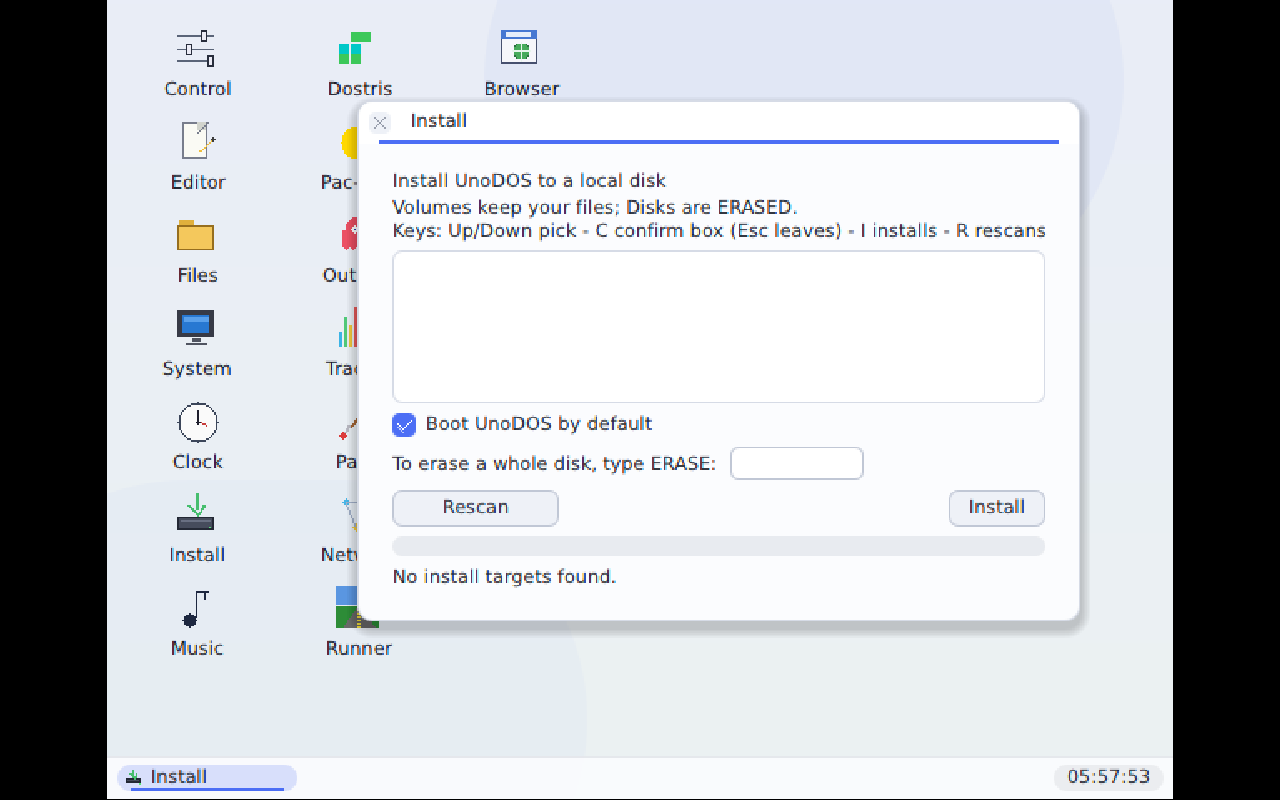
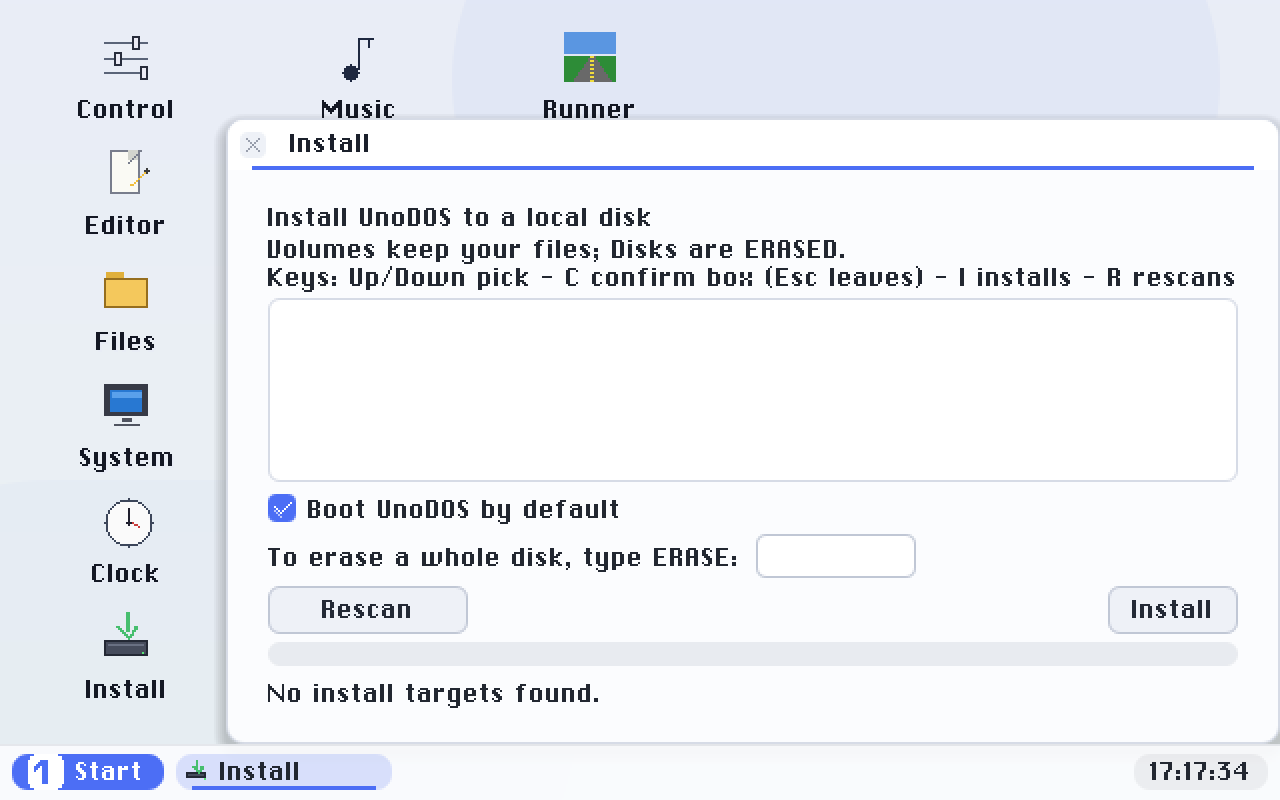
docs: manual - Realtek wired is metal-verified; the whole-disk ERASE gate
Two user-facing corrections from this session's work, plus a refreshed shot.

Networking: the page said the Realtek wired driver "has not been verified on
hardware yet". It has now - a ZimaBlade with an onboard RTL8168 links at gigabit,
takes a DHCP lease and browses with nothing plugged in. The verification note is
reworded accordingly: Intel is emulator-verified, Realtek is metal-verified, and
the laptop caveat is narrowed to laptops (which is what it was always about).

Getting started: the whole-disk install was described as "asks you to confirm
twice", which has not been true since the confirm box landed. It requires TYPING
the word ERASE - C for the box, type it, then I to arm and I to commit. That is a
destructive action reachable in three keystrokes if you believe the old text, so
it now gets numbered steps and a warning callout covering what the gate does and
does not cover (it applies to the selected row only, and re-selecting clears it),
plus the escape hatch: nothing is written until the second I.

install.png regenerated - the committed one still showed the retired Network app
icon on the desktop. The emulator scene offers no installable disk, so the target
list is empty; the caption now says so and explains what a real PC shows instead,
rather than promising a populated list the figure does not contain. Attaching a
scratch disk to the docs harness was tried and does NOT populate it (the disk
[…]

Changed region(s): [[0.0, 0.0, 1.0, 1.0], [0.5625, 0.5938, 0.6875, 0.625]]

diff --git a/docs/getting-started.html b/docs/getting-started.html
@@ -181,11 +181,19 @@ menu) can put UnoDOS on the computer itself, so it boots without the stick:</p>
       menu. <strong>Nothing is deleted</strong> - Windows keeps booting as before, and you can undo it
       by deleting the <code>\EFI\UNODOS</code> folder.</li>
   <li><strong>Onto a whole disk</strong> (the <em>Disk</em> rows): the entire disk is erased and
-      becomes a UnoDOS disk. This is destructive and asks you to confirm twice.</li>
+      becomes a UnoDOS disk. This one cannot be done by accident - you have to type the word
+      <strong>ERASE</strong> first (below).</li>
 </ul>
 <p>Pick a target with <kbd>↑</kbd>/<kbd>↓</kbd> and press <kbd>I</kbd> to install
 (<kbd>R</kbd> rescans). The system files, fonts, documents and all the apps are copied along.</p>
-<figure class="shot-sm"><button type="button" class="zoom" data-full="assets/img/install.png" aria-label="Enlarge: The Install app: pick a target, press I. Rows marked keeps data are non-destructive."><img src="assets/img/install.png" alt="The Install app: pick a target, press I. Rows marked keeps data are non-destructive." loading="lazy"></button><figcaption>The <b>Install</b> app: pick a target, press <kbd>I</kbd>. Rows marked <i>keeps data</i> are non-destructive.</figcaption></figure>
+<p>For a <strong>whole disk</strong>, one more step stands between you and an erased drive:</p>
+<ol>
+  <li>Press <kbd>C</kbd> to put the caret in the confirm box (<kbd>Esc</kbd> leaves it again).</li>
+  <li>Type <strong>ERASE</strong>.</li>
+  <li>Press <kbd>I</kbd> to arm, then <kbd>I</kbd> again to commit.</li>
+</ol>
+<div class="note warn"><b>A whole-disk install erases everything on that disk</b>Typing <b>ERASE</b> is the only thing that unlocks a whole-disk install, and it applies to the selected row only - change the selection and you type it again. A row listed <b>[too small]</b>, <b>[read-only]</b> or <b>[not 512B/s]</b> cannot be installed to at all. If you change your mind, press <kbd>Esc</kbd> and close the window; nothing is written until the second <kbd>I</kbd>.</div>
+<figure class="shot-sm"><button type="button" class="zoom" data-full="assets/img/install.png" aria-label="Enlarge: The Install app. The key line across the top is the whole procedure, and the type ERASE box above the buttons is the gate on a whole-disk install - until that word is typed, I does nothing. This shot is from the emulator, which offers no disk UnoDOS can install to, so the list is empty; on a real PC each eligible disk and EFI partition appears as a row."><img src="assets/img/install.png" alt="The Install app. The key line across the top is the whole procedure, and the type ERASE box above the buttons is the gate on a whole-disk install - until that word is typed, I does nothing. This shot is from the emulator, which offers no disk UnoDOS can install to, so the list is empty; on a real PC each eligible disk and EFI partition appears as a row." loading="lazy"></button><figcaption>The <b>Install</b> app. The key line across the top is the whole procedure, and the <b>type ERASE</b> box above the buttons is the gate on a whole-disk install - until that word is typed, <kbd>I</kbd> does nothing. This shot is from the emulator, which offers no disk UnoDOS can install to, so the list is empty; on a real PC each eligible disk and EFI partition appears as a row.</figcaption></figure>
 
 <h2 id="firstboot">First boot</h2>
 <p>A splash screen with a loading bar appears while UnoDOS starts up, then a short start-up chime

diff --git a/docs/networking.html b/docs/networking.html
@@ -106,9 +106,10 @@ laptops with an Ethernet socket:</p>
       laptop LOM chips (the <em>e1000e</em> family)</li>
   <li><strong>Intel I210 / I211 / I350</strong> and the 8257x server parts (the <em>igb</em> family)</li>
 </ul>
-<p>A driver for <strong>Realtek</strong> wired chips (RTL8168 / 8111 / 8125) is included but has not been
-verified on hardware yet.</p>
-<div class="note"><b>Emulator-verified</b>The wired Intel drivers are verified in the emulator against the QEMU e1000 / e1000e / igb models. Most test laptops have no wired port, so the built-in NIC on a given real machine may not have been exercised end to end - if the built-in port does not come up, a supported USB Ethernet adapter (below) is the reliable path.</div>
+<p><strong>Realtek</strong> wired chips (RTL8168 / 8111 / 8125) are supported too - the port built into most
+desktop boards and small-form-factor PCs. This one is <strong>verified on real hardware</strong>: a ZimaBlade
+with an onboard RTL8168 links at gigabit, takes a DHCP address and browses, with no adapter plugged in.</p>
+<div class="note"><b>How this is verified</b>The Intel drivers are verified in the emulator against the QEMU e1000 / e1000e / igb models, and the Realtek driver on a real machine. Most test <em>laptops</em> have no wired port, so the built-in NIC on any given laptop may not have been exercised end to end - if a built-in port does not come up, a supported USB Ethernet adapter (below) is the reliable path.</div>
 
 <h2 id="status">Checking the connection</h2>
 <p>The <strong>Network</strong> tab in the <a href="appearance.html#control">Control Panel</a> shows the live

diff --git a/docs/build_site.py b/docs/build_site.py
@@ -858,11 +858,19 @@ menu) can put UnoDOS on the computer itself, so it boots without the stick:</p>
       menu. <strong>Nothing is deleted</strong> - Windows keeps booting as before, and you can undo it
       by deleting the <code>\\EFI\\UNODOS</code> folder.</li>
   <li><strong>Onto a whole disk</strong> (the <em>Disk</em> rows): the entire disk is erased and
-      becomes a UnoDOS disk. This is destructive and asks you to confirm twice.</li>
+      becomes a UnoDOS disk. This one cannot be done by accident - you have to type the word
+      <strong>ERASE</strong> first (below).</li>
 </ul>
 <p>Pick a target with <kbd>↑</kbd>/<kbd>↓</kbd> and press <kbd>I</kbd> to install
 (<kbd>R</kbd> rescans). The system files, fonts, documents and all the apps are copied along.</p>
-{fig("install.png", "The <b>Install</b> app: pick a target, press <kbd>I</kbd>. Rows marked <i>keeps data</i> are non-destructive.", cls="shot-sm")}
+<p>For a <strong>whole disk</strong>, one more step stands between you and an erased drive:</p>
+<ol>
+  <li>Press <kbd>C</kbd> to put the caret in the confirm box (<kbd>Esc</kbd> leaves it again).</li>
+  <li>Type <strong>ERASE</strong>.</li>
+  <li>Press <kbd>I</kbd> to arm, then <kbd>I</kbd> again to commit.</li>
+</ol>
+{note('Typing <b>ERASE</b> is the only thing that unlocks a whole-disk install, and it applies to the selected row only - change the selection and you type it again. A row listed <b>[too small]</b>, <b>[read-only]</b> or <b>[not 512B/s]</b> cannot be installed to at all. If you change your mind, press <kbd>Esc</kbd> and close the window; nothing is written until the second <kbd>I</kbd>.', kind="warn", title="A whole-disk install erases everything on that disk")}
+{fig("install.png", "The <b>Install</b> app. The key line across the top is the whole procedure, and the <b>type ERASE</b> box above the buttons is the gate on a whole-disk install - until that word is typed, <kbd>I</kbd> does nothing. This shot is from the emulator, which offers no disk UnoDOS can install to, so the list is empty; on a real PC each eligible disk and EFI partition appears as a row.", cls="shot-sm")}
 
 <h2 id="firstboot">First boot</h2>
 <p>A splash screen with a loading bar appears while UnoDOS starts up, then a short start-up chime
@@ -1156,9 +1164,10 @@ laptops with an Ethernet socket:</p>
       laptop LOM chips (the <em>e1000e</em> family)</li>
   <li><strong>Intel I210 / I211 / I350</strong> and the 8257x server parts (the <em>igb</em> family)</li>
 </ul>
-<p>A driver for <strong>Realtek</strong> wired chips (RTL8168 / 8111 / 8125) is included but has not been
-verified on hardware yet.</p>
-{note('The wired Intel drivers are verified in the emulator against the QEMU e1000 / e1000e / igb models. Most test laptops have no wired port, so the built-in NIC on a given real machine may not have been exercised end to end - if the built-in port does not come up, a supported USB Ethernet adapter (below) is the reliable path.', title="Emulator-verified")}
+<p><strong>Realtek</strong> wired chips (RTL8168 / 8111 / 8125) are supported too - the port built into most
+desktop boards and small-form-factor PCs. This one is <strong>verified on real hardware</strong>: a ZimaBlade
+with an onboard RTL8168 links at gigabit, takes a DHCP address and browses, with no adapter plugged in.</p>
+{note('The Intel drivers are verified in the emulator against the QEMU e1000 / e1000e / igb models, and the Realtek driver on a real machine. Most test <em>laptops</em> have no wired port, so the built-in NIC on any given laptop may not have been exercised end to end - if a built-in port does not come up, a supported USB Ethernet adapter (below) is the reliable path.', title="How this is verified")}
 
 <h2 id="status">Checking the connection</h2>
 <p>The <strong>Network</strong> tab in the <a href="appearance.html#control">Control Panel</a> shows the live
